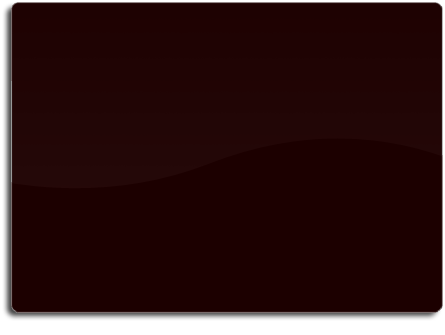
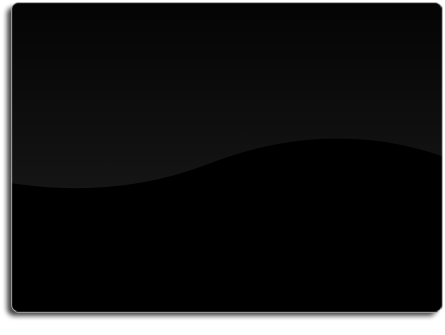
Change back panel to black fix artist/album matching   matches a lot more fixed some unintentional dialog traps

diff --git a/resources/lib/gui.py b/resources/lib/gui.py
@@ -19,6 +19,10 @@ from traceback import print_exc
 import xbmcgui
 import xbmcaddon
 import xbmc
+import socket
+import shutil
+#time socket out at 2 mins.
+socket.setdefaulttimeout(120)
 
 KEY_BUTTON_BACK = 275
 KEY_KEYBOARD_ESC = 61467
@@ -57,7 +61,8 @@ xmlfile = os.path.join( BASE_RESOURCE_PATH , "temp.xml" )
 artist_url = "http://www.xbmcstuff.com/music_scraper.php?&id_scraper=OIBNYbNUYBCezub&t=artists"
 album_url = "http://www.xbmcstuff.com/music_scraper.php?&id_scraper=OIBNYbNUYBCezub&t=cdarts"
 cross_url = "http://www.xbmcstuff.com/music_scraper.php?&id_scraper=OIBNYbNUYBCezub&t=cross"
-addon_db = os.path.join(xbmc.translatePath( "special://profile/addon_data/" ), __scriptID__, "l_cdart.db")
+addon_work_folder = os.path.join(xbmc.translatePath( "special://profile/addon_data/" ), __scriptID__)
+addon_db = os.path.join(addon_work_folder, "l_cdart.db")
 addon_image_path = os.path.join( BASE_RESOURCE_PATH, "skins", "Default", "media")
 addon_img = os.path.join( addon_image_path , "cdart-icon.png" )
 pDialog = xbmcgui.DialogProgress()
@@ -171,9 +176,16 @@ class GUI( xbmcgui.WindowXMLDialog ):
                 artist["distant_id"] = match.group(1)
                 recognized.append(artist)
                 artist_list.append(artist)
-            else:
-                artist["distant_id"] = ""
-                artist_list.append(artist)
+            else: # give it one more try, but changing special characters
+                match = re.search('<artist id="(.*?)">%s</artist>' % str.lower( re.escape((artist["name"].replace("/","")).replace("&","&amp;") ) ), distant_artist )
+                if match: 
+                    true = true + 1
+                    artist["distant_id"] = match.group(1)
+                    recognized.append(artist)
+                    artist_list.append(artist)
+                else:    
+                    artist["distant_id"] = ""
+                    artist_list.append(artist)
             pDialog.update(true, (_(32049) % true))
             #Onscreen Dialog - Artists Matched: %
             if ( pDialog.iscanceled() ):
@@ -210,7 +222,7 @@ class GUI( xbmcgui.WindowXMLDialog ):
                     album["local_name"] = name
                     match = re.search( "<artist>(.*?)</artist>", i )
                     if match:
-                        album["artist"] = set_entity_or_charref(match.group(1))
+                        album["artist"] = set_entity_or_charref((match.group(1).replace("&amp;", "&")).replace("'",""))
                     else:
                         album["artist"] = ""
                     if not album["artist"] in search_dialog:
@@ -218,7 +230,7 @@ class GUI( xbmcgui.WindowXMLDialog ):
                     
                     match = re.search( "<album>(.*?)</album>", i )
                     if match:
-                        album["title"] = (match.group(1))
+                        album["title"] = (match.group(1).replace("&amp;", "&")).replace("'","")
                     else:
                         album["title"] = ""
                     
@@ -255,14 +267,14 @@ class GUI( xbmcgui.WindowXMLDialog ):
     
     # finds the cdart for the album list    
     def find_cdart( self , album , artist_album_list):
-        xml = self.get_html_source( cross_url + "&album=%s&artist=%s" % (urllib.quote_plus(album["title"].replace("&", "&amp;")) , urllib.quote_plus(artist_album_list[0]["artist"])))
+        xml = self.get_html_source( cross_url + "&album=%s&artist=%s" % (urllib.quote_plus((album["title"].replace("&", "&amp;")).replace("'","")) , urllib.quote_plus((artist_album_list[0]["artist"].replace("&", "&amp;")).replace("/",""))))
         # the .replace("&", "&amp;") is in place to correctly match the albums with & in them
         match = re.findall( "<picture>(.*?)</picture>", xml )
         return match
     
     #finds the cdart for auto download
     def find_cdart2(self , album):
-        xml = self.get_html_source( cross_url + "&album=%s&artist=%s" % (urllib.quote_plus((album["title"].replace(",","")).replace("&", "&amp;")) , urllib.quote_plus(album["artist"])))
+        xml = self.get_html_source( cross_url + "&album=%s&artist=%s" % (urllib.quote_plus(((album["title"].replace(",","")).replace("&", "&amp;")).replace("'","")) , urllib.quote_plus((album["artist"].replace("&", "&amp;")).replace("/",""))))
         # the .replace("&", "&amp;") is in place to correctly match the albums containing '&'
         match = re.findall( "<picture>(.*?)</picture>", xml )
         return match
@@ -308,7 +320,7 @@ class GUI( xbmcgui.WindowXMLDialog ):
                 message = [ _(32026),  _(32025) , "File: %s" % album["path"] , "Url: %s" % url_cdart]
                 #message = Download Problem, Check file paths - CDArt Not Downloaded]           
             if ( pDialog.iscanceled() ):
-                pass
+                pDialog.close()
             
         except:
             #print "another error"
@@ -317,7 +329,6 @@ class GUI( xbmcgui.WindowXMLDialog ):
             print_exc()
         #conn.commit()
         #c.close()
-        pDialog.close()
         return message, download_success  # returns one of the messages built based on success or lack of
 
     #Automatically downloads non existing cdarts and refreshes addon's db
@@ -346,7 +357,7 @@ class GUI( xbmcgui.WindowXMLDialog ):
                     print "#            ALBUM MATCH FOUND"
                     if album["cdart"] == "FALSE" :
                         #print "test_album[0]: %s" % test_album[0]
-                        message, d_sucess = self.download_cdart( test_album[0] , album )
+                        message, d_success = self.download_cdart( test_album[0] , album )
                         if d_success == 1:
                             download_count = download_count + 1
                             album["cdart"] = "TRUE"
@@ -392,7 +403,7 @@ class GUI( xbmcgui.WindowXMLDialog ):
                 match = re.search('album="(.*?)">', i )
                 #search for album title match, if found, store in album["title"], if not found store empty space
                 if match:
-                    album["title"] = (match.group(1).replace("&amp;", "&"))               
+                    album["title"] = (match.group(1).replace("&amp;", "&")).replace("'","")               
                     
                 else:
                     album["title"] = ""
@@ -546,11 +557,11 @@ class GUI( xbmcgui.WindowXMLDialog ):
         db=c.fetchall()
         for item in db:
             album = {}
-            album["cdart"] = translate_string( item[0].encode("utf-8"))
-            album["path"] = (repr(item[1]).replace('"','')).encode("utf-8")
-            album["artist_id"] = repr(item[2])
-            album["title"] = translate_string( item[3].encode("utf-8"))
-            album["artist"] = translate_string( item[4].encode("utf-8"))
+            album["cdart"] = translate_string( item[0].encode("utf-8")).strip("'u")
+            album["path"] = (repr(item[1]).replace('"','')).encode("utf-8").strip("'u")
+            album["artist_id"] = repr(item[2]).strip("'u")
+            album["title"] = translate_string( item[3].encode("utf-8")).strip("'u")
+            album["artist"] = translate_string( item[4].encode("utf-8")).strip("'u")
             local_album_list.append(album)
             c.close
         return local_album_list
@@ -590,7 +601,6 @@ class GUI( xbmcgui.WindowXMLDialog ):
             else:
                 pass
             
-            
         else :
             #If file does not exist and some how the program got here, create new database
             self.local_album_count, self.local_artist_count, self.local_cdart_count = self.database_setup()
@@ -601,14 +611,35 @@ class GUI( xbmcgui.WindowXMLDialog ):
         
     # copy cdarts from music folder to temporary location
     # first step to copy to skin folder
-    #def cdart_copy( self )
-    #   albums = get_local_db()
-    #   for item in albums:
-    #   if item["cdart"] == "TRUE":
-    #       source=os.path.join(item["path"], "cdart.png")
-    #
-    #
-    
+    def cdart_copy( self ):
+        destination = ""
+        percent = 0
+        count = 0
+        albums = self.get_local_db()
+        #print albums
+        pDialog.create( "Saving CDArts..." )
+        for item in albums:
+            #print item
+            if item["cdart"] == "TRUE":
+                source=os.path.join(item["path"].replace("\\\\" , "\\"), "cdart.png")
+                destination=os.path.join(addon_work_folder, "cdart", item["artist"].replace("/","")) #to fix AC/DC
+                #print "source: %s" % source
+                #print "destination: %s" % destination
+                if not os.path.exists(destination):
+                    #pass
+                    os.makedirs(destination)
+                else:
+                    pass
+                fn = os.path.join(destination, (((item["artist"].replace("/", "")) + " - " + (item["title"].replace("/","")) + ".png").lower()))
+                #print "filename: %s" % fn
+                shutil.copy(source, fn)
+                count = count + 1
+                percent = int(count/float(self.local_cdart_count)*100)
+                pDialog.update( percent , ("CDArts Copied: %s" % count))
+            else:
+                pass
+        pDialog.close()
+        xbmcgui.Dialog().ok("Finished Copying cdart" ,("CDArts Located at: %s" % destination), ("%s CDArts Copied" % count))
 
     # setup self. strings and initial local counts
     def setup_all( self ):
@@ -714,6 +745,7 @@ class GUI( xbmcgui.WindowXMLDialog ):
             if not url =="" : # If it is a recognized Album...
                 message, d_success = self.download_cdart( url, cdart_path )
                 xbmcgui.Dialog().ok(message[0] ,message[1] ,message[2] ,message[3])
+                pDialog.close()
             else : # If it is not a recognized Album...
                 for elem in self.cdart_url:
                     album["search_name"] = elem["title"]
@@ -726,12 +758,13 @@ class GUI( xbmcgui.WindowXMLDialog ):
                     cdart_url = album_selection[select]
                     message, d_success = self.download_cdart( cdart_url, cdart_path )
                     xbmcgui.Dialog().ok(message[0] ,message[1] ,message[2] ,message[3])
+                    pDialog.close()
         if controlId == 132 : #Clean Music database selected from Advanced Menu
             xbmc.executebuiltin( "CleanLibrary(music)") 
         if controlId == 133 : #Update Music database selected from Advanced Menu
             xbmc.executebuiltin( "UpdateLibrary(music)")
         if controlId == 130 : #Save Local CDArt List selected from Advanced Menu
-            pass
+            self.cdart_copy()
         if controlId == 131 : #Refresh Local database selected from Advanced Menu
             self.refresh_db()
         if controlId == 104 : #Settings
